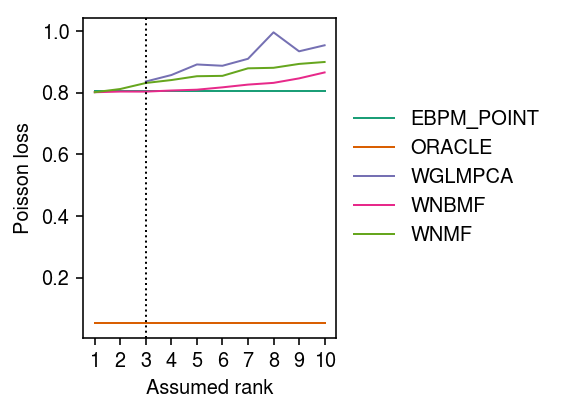
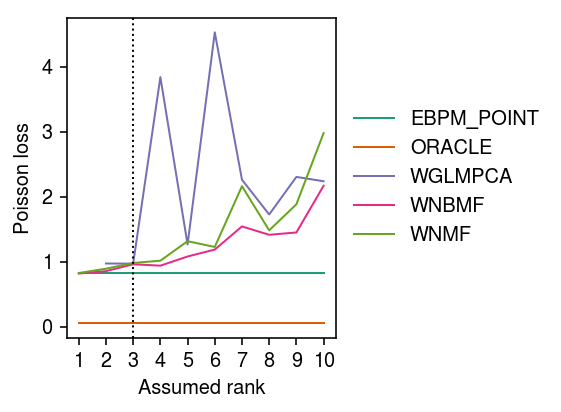
Look at imputation performance vs simulation parameters

diff --git a/docs/imputation.html b/docs/imputation.html
@@ -1,7 +1,7 @@
 <!DOCTYPE html>
 <html lang="en">
 <head>
-<!-- 2019-12-09 Mon 13:15 -->
+<!-- 2019-12-10 Tue 01:43 -->
 <meta charset="utf-8">
 <meta name="viewport" content="width=device-width, initial-scale=1">
 <title>Imputation of count matrices</title>
@@ -272,7 +272,7 @@ for the JavaScript code in this tag.
 <li><a href="#results">Results</a>
 <ul>
 <li><a href="#simulation">Simulated Poisson example</a></li>
-<li><a href="#org05c8395">Simulated NB example</a></li>
+<li><a href="#sim-nb">Simulated NB example</a></li>
 <li><a href="#orgfd4d399">Imputation benchmark</a></li>
 </ul>
 </li>
@@ -863,8 +863,8 @@ plt.tight_layout()
 </div>
 
 <div id="outline-container-org05c8395" class="outline-3">
-<h3 id="org05c8395">Simulated NB example</h3>
-<div class="outline-text-3" id="text-org05c8395">
+<h3 id="sim-nb"><a id="org05c8395"></a>Simulated NB example</h3>
+<div class="outline-text-3" id="text-sim-nb">
 <p>
 Simulate some data from the model.
 </p>
@@ -872,7 +872,7 @@ Simulate some data from the model.
 <div class="org-src-container">
 <pre class="src src-ipython">np.random.seed(0)
 <span class="org-variable-name">n</span> = 500
-<span class="org-variable-name">p</span> = 1000
+<span class="org-variable-name">p</span> = 100
 <span class="org-variable-name">k</span> = 3
 <span class="org-variable-name">l</span> = np.random.lognormal(sigma=.5, size=(n, k))
 <span class="org-variable-name">f</span> = np.random.lognormal(sigma=.5, size=(p, k))
@@ -949,6 +949,96 @@ plt.tight_layout()
 
 <div class="figure">
 <p><img src="figure/imputation.org/sim-nb-inset.png" alt="sim-nb-inset.png">
+</p>
+</div>
+
+<p>
+Look at how imputation performance depends on the relative magnitude of the
+random effect variance \(\phi\) and the structured variance
+\(\operatorname{Var}(\mu)\).
+</p>
+
+<div class="org-src-container">
+<pre class="src src-ipython"><span class="org-keyword">def</span> <span class="org-function-name">simulate</span>(n, p, k, pve=0.5, seed=0):
+  np.random.seed(seed)
+  <span class="org-variable-name">l</span> = np.random.lognormal(sigma=.5, size=(n, k))
+  <span class="org-variable-name">f</span> = np.random.lognormal(sigma=.5, size=(p, k))
+  <span class="org-variable-name">mu</span> = l.dot(f.T)
+  <span class="org-variable-name">inv_disp</span> = 1 / ((1 / pve - 1) * mu.var())
+  <span class="org-variable-name">u</span> = np.random.gamma(shape=inv_disp, scale=1 / inv_disp, size=(n, p))
+  <span class="org-variable-name">x</span> = np.random.poisson(lam=mu * u)
+  <span class="org-keyword">return</span> x, mu, u
+</pre>
+</div>
+
+<p>
+Give each method the oracle rank.
+</p>
+
+<div class="org-src-container">
+<pre class="src src-ipython"><span class="org-variable-name">imputation_res</span> = []
+<span class="org-keyword">for</span> pve <span class="org-keyword">in</span> np.linspace(.1, .9, 9):
+  <span class="org-keyword">for</span> method <span class="org-keyword">in</span> (<span class="org-string">'ebpm_point'</span>, <span class="org-string">'wnmf'</span>, <span class="org-string">'wnbmf'</span>):
+    x, *<span class="org-variable-name">_</span> = simulate(n=500, p=100, k=3, pve=pve, seed=0)
+    <span class="org-variable-name">loss</span> = <span class="org-builtin">getattr</span>(scmodes.benchmark, f<span class="org-string">'imputation_score_{method}'</span>)(x, rank=3, frac=0.1, seed=0, inv_disp=1, fix_inv_disp=<span class="org-constant">False</span>)
+    imputation_res.append([pve, method, loss])
+<span class="org-variable-name">imputation_res</span> = pd.DataFrame(imputation_res, columns=[<span class="org-string">'pve'</span>, <span class="org-string">'method'</span>, <span class="org-string">'loss'</span>])
+</pre>
+</div>
+
+<div class="org-src-container">
+<pre class="src src-ipython"><span class="org-variable-name">cm</span> = plt.get_cmap(<span class="org-string">'Dark2'</span>)
+plt.clf()
+plt.gcf().set_size_inches(3, 3)
+<span class="org-keyword">for</span> i, (k, g) <span class="org-keyword">in</span> <span class="org-builtin">enumerate</span>(imputation_res.groupby(<span class="org-string">'method'</span>)):
+  plt.plot(g[<span class="org-string">'pve'</span>], g[<span class="org-string">'loss'</span>], lw=1, c=cm(i), label=k.upper())
+plt.legend(frameon=<span class="org-constant">False</span>)
+plt.xlabel(<span class="org-string">'Proportion of variance explained'</span>)
+plt.ylabel(<span class="org-string">'Poisson loss'</span>)
+plt.tight_layout()
+</pre>
+</div>
+
+
+<div class="figure">
+<p><img src="figure/imputation.org/sim-nb-pve.png" alt="sim-nb-pve.png">
+</p>
+</div>
+
+<p>
+Look at how imputation performance depends on the proportion of masked
+entries.
+</p>
+
+<div class="org-src-container">
+<pre class="src src-ipython"><span class="org-variable-name">imputation_res</span> = []
+<span class="org-keyword">for</span> frac <span class="org-keyword">in</span> np.linspace(.01, .3, 10):
+  <span class="org-keyword">for</span> method <span class="org-keyword">in</span> (<span class="org-string">'ebpm_point'</span>, <span class="org-string">'wnmf'</span>, <span class="org-string">'wnbmf'</span>):
+    x, *<span class="org-variable-name">_</span> = simulate(n=500, p=100, k=3, pve=0.9, seed=0)
+    <span class="org-variable-name">loss</span> = <span class="org-builtin">getattr</span>(scmodes.benchmark, f<span class="org-string">'imputation_score_{method}'</span>)(x, rank=3, frac=frac, seed=0, inv_disp=1, fix_inv_disp=<span class="org-constant">False</span>)
+    imputation_res.append([frac, method, loss])
+<span class="org-variable-name">imputation_res</span> = pd.DataFrame(imputation_res, columns=[<span class="org-string">'frac'</span>, <span class="org-string">'method'</span>, <span class="org-string">'loss'</span>])
+</pre>
+</div>
+
+<div class="org-src-container">
+<pre class="src src-ipython"><span class="org-variable-name">cm</span> = plt.get_cmap(<span class="org-string">'Dark2'</span>)
+<span class="org-variable-name">T</span> = imputation_res.pivot(index=<span class="org-string">'frac'</span>, columns=<span class="org-string">'method'</span>)[<span class="org-string">'loss'</span>]
+plt.clf()
+plt.gcf().set_size_inches(3, 3)
+<span class="org-keyword">for</span> i, m <span class="org-keyword">in</span> <span class="org-builtin">enumerate</span>((<span class="org-string">'wnmf'</span>, <span class="org-string">'wnbmf'</span>)):
+  plt.plot(T.index, T[<span class="org-string">'ebpm_point'</span>] - T[m], lw=1, c=cm(i), label=m.upper())
+plt.axhline(y=0, lw=1, ls=<span class="org-string">':'</span>, c=<span class="org-string">'k'</span>)
+plt.legend(frameon=<span class="org-constant">False</span>)
+plt.xlabel(<span class="org-string">'Fraction masked entries'</span>)
+plt.ylabel(<span class="org-string">'Improvement in Poisson loss\nover mean imputation'</span>)
+plt.tight_layout()
+</pre>
+</div>
+
+
+<div class="figure">
+<p><img src="figure/imputation.org/sim-nb-frac.png" alt="sim-nb-frac.png">
 </p>
 </div>
 </div>
@@ -1069,7 +1159,7 @@ fig.tight_layout()
 </div>
 <div id="postamble" class="status">
 <p class="author">Author: Abhishek Sarkar</p>
-<p class="date">Created: 2019-12-09 Mon 13:15</p>
+<p class="date">Created: 2019-12-10 Tue 01:43</p>
 <p class="validation"><a href="http://validator.w3.org/check?uri=referer">Validate</a></p>
 </div>
 </body>
